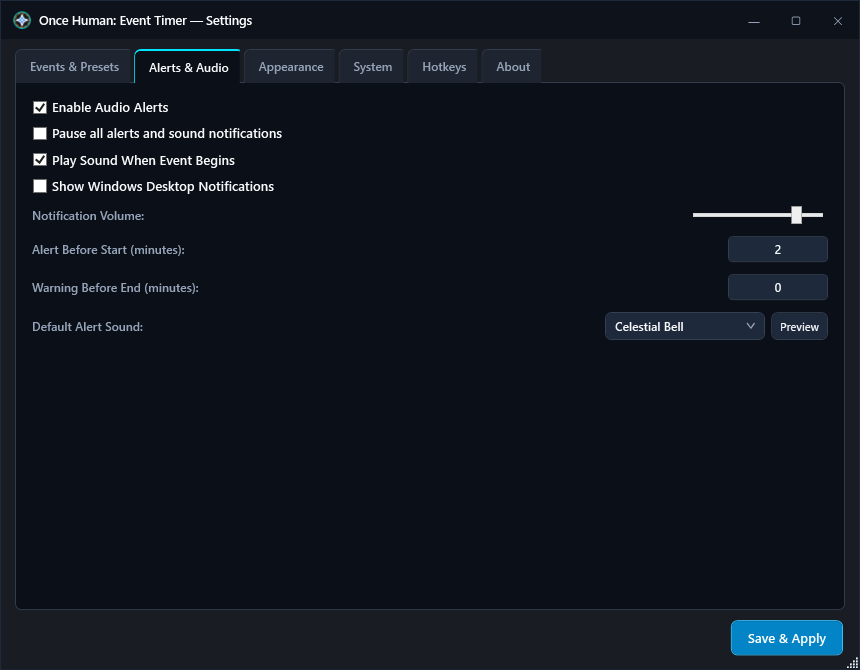
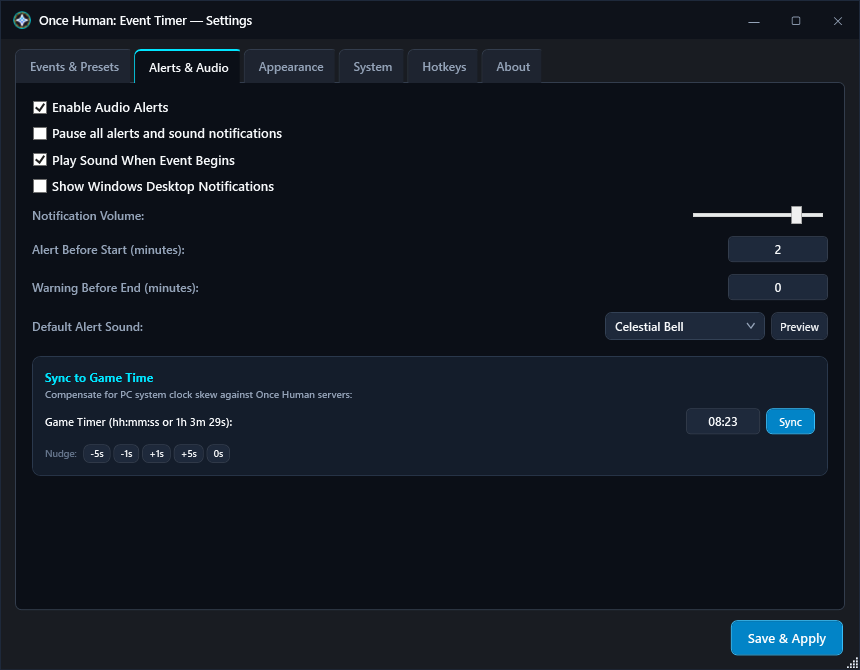
refactor(ui): Move server clock drift calibration card to Alerts & Audio tab
- Relocate 'Sync to Game Time (Server Clock Skew)' card from Events & Presets to Alerts & Audio tab
- Wrap Alerts & Audio tab in ScrollViewer for responsive vertical scaling
- Clean up Events & Presets tab right panel to eliminate scrolling and focus purely on event rules
- Update screenshots (settings-events.jpg and settings-audio.png)
- Bump version to 1.5.6

Changed region(s): [[0.0302, 0.6269, 0.2721, 0.7164], [0.0302, 0.5373, 0.393, 0.597], [0.786, 0.597, 0.9674, 0.6567]]

diff --git a/src/OnceHumanEventTimer.UI/Views/SettingsWindow.xaml b/src/OnceHumanEventTimer.UI/Views/SettingsWindow.xaml
@@ -406,67 +406,7 @@
                                         </StackPanel>
                                     </Border>
 
-                                    <!-- Game Server Skew Calibration Card -->
-                                    <Border Background="#141D2B"
-                                            BorderBrush="#2A384C"
-                                            BorderThickness="1"
-                                            CornerRadius="6"
-                                            Padding="10"
-                                            Margin="0,2,0,0">
-                                        <StackPanel>
-                                            <TextBlock Text="{loc:Loc Settings_SyncToGame}"
-                                                       FontWeight="Bold"
-                                                       FontSize="12"
-                                                       Foreground="{StaticResource AccentWaitingBrush}" />
 
-                                            <TextBlock Text="{loc:Loc Settings_SyncDesc}"
-                                                       FontSize="10"
-                                                       Foreground="{StaticResource TextSecondaryBrush}"
-                                                       TextWrapping="Wrap"
-                                                       Margin="0,2,0,6" />
-
-                                            <Grid Margin="0,0,0,6">
-                                                <Grid.ColumnDefinitions>
-                                                    <ColumnDefinition Width="*" />
-                                                    <ColumnDefinition Width="70" />
-                                                    <ColumnDefinition Width="Auto" />
-                                                </Grid.ColumnDefinitions>
-                                                <TextBlock Text="{loc:Loc Settings_GameRemaining}"
-                                                           VerticalAlignment="Center"
-                                                           Foreground="{StaticResource TextPrimaryBrush}"
-                                                           FontSize="11" />
-                                                <TextBox Grid.Column="1"
-                                                         Text="{Binding GameRemainingInput, UpdateSourceTrigger=PropertyChanged}"
-                                                         HorizontalContentAlignment="Center"
-                                                         Margin="0,0,6,0" />
-                                                <Button Grid.Column="2"
-                                                        Command="{Binding SyncToGameCommand}"
-                                                        Style="{StaticResource PrimaryAccentButtonStyle}"
-                                                        Content="{loc:Loc Settings_SyncButton}"
-                                                        Padding="10,3"
-                                                        FontSize="11" />
-                                            </Grid>
-
-                                            <!-- Quick Nudge Buttons -->
-                                            <StackPanel Orientation="Horizontal" Margin="0,2,0,0">
-                                                <TextBlock Text="Nudge: " Foreground="{StaticResource TextMutedBrush}" FontSize="9.5" VerticalAlignment="Center" Margin="0,0,3,0" />
-                                                <Button Content="-5s" Command="{Binding NudgeOffsetCommand}" CommandParameter="-5" Style="{StaticResource ModernDarkButtonStyle}" Padding="5,1" FontSize="9.5" Margin="0,0,2,0" />
-                                                <Button Content="-1s" Command="{Binding NudgeOffsetCommand}" CommandParameter="-1" Style="{StaticResource ModernDarkButtonStyle}" Padding="5,1" FontSize="9.5" Margin="0,0,2,0" />
-                                                <Button Content="+1s" Command="{Binding NudgeOffsetCommand}" CommandParameter="1" Style="{StaticResource ModernDarkButtonStyle}" Padding="5,1" FontSize="9.5" Margin="0,0,2,0" />
-                                                <Button Content="+5s" Command="{Binding NudgeOffsetCommand}" CommandParameter="5" Style="{StaticResource ModernDarkButtonStyle}" Padding="5,1" FontSize="9.5" Margin="0,0,2,0" />
-                                                <Button Content="0s" Command="{Binding NudgeOffsetCommand}" CommandParameter="0" Style="{StaticResource ModernDarkButtonStyle}" Padding="5,1" FontSize="9.5" />
-                                            </StackPanel>
-
-                                            <!-- Feedback notification -->
-                                            <TextBlock Text="{Binding SyncFeedbackMessage}"
-                                                       Foreground="#22C55E"
-                                                       FontWeight="SemiBold"
-                                                       FontSize="10.5"
-                                                       Margin="0,6,0,0"
-                                                       Visibility="{Binding ShowSyncFeedback, Converter={StaticResource BoolToVis}}"
-                                                       TextWrapping="Wrap" />
-                                        </StackPanel>
-                                    </Border>
                                 </StackPanel>
                             </ScrollViewer>
                         </Grid>
@@ -474,71 +414,135 @@
 
                     <!-- Tab 2: Alerts & Audio -->
                     <TabItem Header="{loc:Loc Settings_TabNotifications}">
-                        <StackPanel Margin="16">
-                            <CheckBox Content="{loc:Loc Settings_PlaySound}" IsChecked="{Binding PlayAlertSound}" Style="{StaticResource ModernCheckBoxStyle}" Margin="0,0,0,10" />
-                            <CheckBox Content="{loc:Loc Settings_PauseAlerts}" IsChecked="{Binding AreAlertsPaused}" Style="{StaticResource ModernCheckBoxStyle}" Margin="0,0,0,10" />
-                            <CheckBox Content="{loc:Loc Settings_PlayOnStart}" IsChecked="{Binding PlayOnEventStart}" Style="{StaticResource ModernCheckBoxStyle}" Margin="0,0,0,10" />
-                            <CheckBox Content="{loc:Loc Settings_ShowToast}" IsChecked="{Binding ShowToastAlert}" Style="{StaticResource ModernCheckBoxStyle}" Margin="0,0,0,12" />
+                        <ScrollViewer VerticalScrollBarVisibility="Auto">
+                            <StackPanel Margin="16">
+                                <CheckBox Content="{loc:Loc Settings_PlaySound}" IsChecked="{Binding PlayAlertSound}" Style="{StaticResource ModernCheckBoxStyle}" Margin="0,0,0,10" />
+                                <CheckBox Content="{loc:Loc Settings_PauseAlerts}" IsChecked="{Binding AreAlertsPaused}" Style="{StaticResource ModernCheckBoxStyle}" Margin="0,0,0,10" />
+                                <CheckBox Content="{loc:Loc Settings_PlayOnStart}" IsChecked="{Binding PlayOnEventStart}" Style="{StaticResource ModernCheckBoxStyle}" Margin="0,0,0,10" />
+                                <CheckBox Content="{loc:Loc Settings_ShowToast}" IsChecked="{Binding ShowToastAlert}" Style="{StaticResource ModernCheckBoxStyle}" Margin="0,0,0,12" />
 
-                            <Grid Margin="0,0,0,12">
-                                <Grid.ColumnDefinitions>
-                                    <ColumnDefinition Width="*" />
-                                    <ColumnDefinition Width="140" />
-                                </Grid.ColumnDefinitions>
-                                <TextBlock Text="{loc:Loc Settings_Volume}" VerticalAlignment="Center" Foreground="{StaticResource TextSecondaryBrush}" />
-                                <Slider Grid.Column="1" Minimum="0" Maximum="1" Value="{Binding Volume}" SmallChange="0.05" LargeChange="0.1" VerticalAlignment="Center" />
-                            </Grid>
+                                <Grid Margin="0,0,0,12">
+                                    <Grid.ColumnDefinitions>
+                                        <ColumnDefinition Width="*" />
+                                        <ColumnDefinition Width="140" />
+                                    </Grid.ColumnDefinitions>
+                                    <TextBlock Text="{loc:Loc Settings_Volume}" VerticalAlignment="Center" Foreground="{StaticResource TextSecondaryBrush}" />
+                                    <Slider Grid.Column="1" Minimum="0" Maximum="1" Value="{Binding Volume}" SmallChange="0.05" LargeChange="0.1" VerticalAlignment="Center" />
+                                </Grid>
 
-                            <Grid Margin="0,0,0,12">
-                                <Grid.ColumnDefinitions>
-                                    <ColumnDefinition Width="*" />
-                                    <ColumnDefinition Width="100" />
-                                </Grid.ColumnDefinitions>
-                                <TextBlock Text="{loc:Loc Settings_AlertBeforeStart}" VerticalAlignment="Center" Foreground="{StaticResource TextSecondaryBrush}" />
-                                <TextBox Grid.Column="1" Text="{Binding AlertMinutesBefore, UpdateSourceTrigger=PropertyChanged}" HorizontalContentAlignment="Center" />
-                            </Grid>
+                                <Grid Margin="0,0,0,12">
+                                    <Grid.ColumnDefinitions>
+                                        <ColumnDefinition Width="*" />
+                                        <ColumnDefinition Width="100" />
+                                    </Grid.ColumnDefinitions>
+                                    <TextBlock Text="{loc:Loc Settings_AlertBeforeStart}" VerticalAlignment="Center" Foreground="{StaticResource TextSecondaryBrush}" />
+                                    <TextBox Grid.Column="1" Text="{Binding AlertMinutesBefore, UpdateSourceTrigger=PropertyChanged}" HorizontalContentAlignment="Center" />
+                                </Grid>
 
-                            <Grid Margin="0,0,0,12">
-                                <Grid.ColumnDefinitions>
-                                    <ColumnDefinition Width="*" />
-                                    <ColumnDefinition Width="100" />
-                                </Grid.ColumnDefinitions>
-                                <TextBlock Text="{loc:Loc Settings_AlertBeforeEnd}" VerticalAlignment="Center" Foreground="{StaticResource TextSecondaryBrush}" />
-                                <TextBox Grid.Column="1" Text="{Binding AlertMinutesBeforeEnd, UpdateSourceTrigger=PropertyChanged}" HorizontalContentAlignment="Center" />
-                            </Grid>
+                                <Grid Margin="0,0,0,12">
+                                    <Grid.ColumnDefinitions>
+                                        <ColumnDefinition Width="*" />
+                                        <ColumnDefinition Width="100" />
+                                    </Grid.ColumnDefinitions>
+                                    <TextBlock Text="{loc:Loc Settings_AlertBeforeEnd}" VerticalAlignment="Center" Foreground="{StaticResource TextSecondaryBrush}" />
+                                    <TextBox Grid.Column="1" Text="{Binding AlertMinutesBeforeEnd, UpdateSourceTrigger=PropertyChanged}" HorizontalContentAlignment="Center" />
+                                </Grid>
 
-                            <!-- Default Alert Sound Preset -->
-                            <Grid Margin="0,0,0,12">
-                                <Grid.ColumnDefinitions>
-                                    <ColumnDefinition Width="*" />
-                                    <ColumnDefinition Width="Auto" />
-                                </Grid.ColumnDefinitions>
-                                <TextBlock Text="{loc:Loc Settings_DefaultSound}" VerticalAlignment="Center" Foreground="{StaticResource TextSecondaryBrush}" />
-                                <StackPanel Grid.Column="1" Orientation="Horizontal" VerticalAlignment="Center">
-                                    <ComboBox Width="160"
-                                              ItemsSource="{Binding AvailableSoundPresets}"
-                                              SelectedValuePath="Preset"
-                                              DisplayMemberPath="DisplayName"
-                                              SelectedValue="{Binding AlertSoundPreset}"
-                                              Validation.ErrorTemplate="{x:Null}"
-                                              Margin="0,0,6,0" />
-                                    <Button Style="{StaticResource ModernDarkButtonStyle}" Command="{Binding PreviewAlertSoundCommand}" Content="{loc:Loc Settings_PreviewSound}" Padding="8,4" FontSize="11" />
-                                </StackPanel>
-                            </Grid>
-
-                            <!-- Global Custom Audio (when Custom preset is selected) -->
-                            <StackPanel Margin="0,0,0,12" Visibility="{Binding IsCustomAlertSound, Converter={StaticResource BoolToVis}}">
-                                <TextBlock Text="{loc:Loc Settings_CustomSound}" Foreground="{StaticResource TextSecondaryBrush}" Margin="0,0,0,4" />
-                                <Grid>
+                                <!-- Default Alert Sound Preset -->
+                                <Grid Margin="0,0,0,12">
                                     <Grid.ColumnDefinitions>
                                         <ColumnDefinition Width="*" />
                                         <ColumnDefinition Width="Auto" />
                                     </Grid.ColumnDefinitions>
-                                    <TextBox Text="{Binding CustomSoundPath}" VerticalAlignment="Center" />
-                                    <Button Grid.Column="1" Style="{StaticResource ModernDarkButtonStyle}" Command="{Binding BrowseSoundCommand}" Content="{loc:Loc Settings_Browse}" Margin="8,0,0,0" />
+                                    <TextBlock Text="{loc:Loc Settings_DefaultSound}" VerticalAlignment="Center" Foreground="{StaticResource TextSecondaryBrush}" />
+                                    <StackPanel Grid.Column="1" Orientation="Horizontal" VerticalAlignment="Center">
+                                        <ComboBox Width="160"
+                                                  ItemsSource="{Binding AvailableSoundPresets}"
+                                                  SelectedValuePath="Preset"
+                                                  DisplayMemberPath="DisplayName"
+                                                  SelectedValue="{Binding AlertSoundPreset}"
+                                                  Validation.ErrorTemplate="{x:Null}"
+                                                  Margin="0,0,6,0" />
+                                        <Button Style="{StaticResource ModernDarkButtonStyle}" Command="{Binding PreviewAlertSoundCommand}" Content="{loc:Loc Settings_PreviewSound}" Padding="8,4" FontSize="11" />
+                                    </StackPanel>
                                 </Grid>
+
+                                <!-- Global Custom Audio (when Custom preset is selected) -->
+                                <StackPanel Margin="0,0,0,12" Visibility="{Binding IsCustomAlertSound, Converter={StaticResource BoolToVis}}">
+                                    <TextBlock Text="{loc:Loc Settings_CustomSound}" Foreground="{StaticResource TextSecondaryBrush}" Margin="0,0,0,4" />
+                                    <Grid>
+                                        <Grid.ColumnDefinitions>
+                                            <ColumnDefinition Width="*" />
+                                            <ColumnDefinition Width="Auto" />
+                                        </Grid.ColumnDefinitions>
+                                        <TextBox Text="{Binding CustomSoundPath}" VerticalAlignment="Center" />
+                                        <Button Grid.Column="1" Style="{StaticResource ModernDarkButtonStyle}" Command="{Binding BrowseSoundCommand}" Content="{loc:Loc Settings_Browse}" Margin="8,0,0,0" />
+                                    </Grid>
+                                </StackPanel>
+
+                                <!-- Game Server Skew Calibration Card -->
+                                <Border Background="#141D2B"
+                                        BorderBrush="#2A384C"
+                                        BorderThickness="1"
+                                        CornerRadius="8"
+                                        Padding="12"
+                                        Margin="0,4,0,0">
+                                    <StackPanel>
+                                        <TextBlock Text="{loc:Loc Settings_SyncToGame}"
+                                                   FontWeight="Bold"
+                                                   FontSize="12"
+                                                   Foreground="{StaticResource AccentWaitingBrush}" />
+
+                                        <TextBlock Text="{loc:Loc Settings_SyncDesc}"
+                                                   FontSize="10"
+                                                   Foreground="{StaticResource TextSecondaryBrush}"
+                                                   TextWrapping="Wrap"
+                                                   Margin="0,2,0,8" />
+
+                                        <Grid Margin="0,0,0,8">
+                                            <Grid.ColumnDefinitions>
+                                                <ColumnDefinition Width="*" />
+                                                <ColumnDefinition Width="80" />
+                                                <ColumnDefinition Width="Auto" />
+                                            </Grid.ColumnDefinitions>
+                                            <TextBlock Text="{loc:Loc Settings_GameRemaining}"
+                                                       VerticalAlignment="Center"
+                                                       Foreground="{StaticResource TextPrimaryBrush}"
+                                                       FontSize="11" />
+                                            <TextBox Grid.Column="1"
+                                                     Text="{Binding GameRemainingInput, UpdateSourceTrigger=PropertyChanged}"
+                                                     HorizontalContentAlignment="Center"
+                                                     Margin="0,0,6,0" />
+                                            <Button Grid.Column="2"
+                                                    Command="{Binding SyncToGameCommand}"
+                                                    Style="{StaticResource PrimaryAccentButtonStyle}"
+                                                    Content="{loc:Loc Settings_SyncButton}"
+                                                    Padding="12,3"
+                                                    FontSize="11" />
+                                        </Grid>
+
+                                        <!-- Quick Nudge Buttons -->
+                                        <StackPanel Orientation="Horizontal" Margin="0,2,0,0">
+                                            <TextBlock Text="Nudge: " Foreground="{StaticResource TextMutedBrush}" FontSize="9.5" VerticalAlignment="Center" Margin="0,0,4,0" />
+                                            <Button Content="-5s" Command="{Binding NudgeOffsetCommand}" CommandParameter="-5" Style="{StaticResource ModernDarkButtonStyle}" Padding="6,2" FontSize="9.5" Margin="0,0,3,0" />
+                                            <Button Content="-1s" Command="{Binding NudgeOffsetCommand}" CommandParameter="-1" Style="{StaticResource ModernDarkButtonStyle}" Padding="6,2" FontSize="9.5" Margin="0,0,3,0" />
+                                            <Button Content="+1s" Command="{Binding NudgeOffsetCommand}" CommandParameter="1" Style="{StaticResource ModernDarkButtonStyle}" Padding="6,2" FontSize="9.5" Margin="0,0,3,0" />
+                                            <Button Content="+5s" Command="{Binding NudgeOffsetCommand}" CommandParameter="5" Style="{StaticResource ModernDarkButtonStyle}" Padding="6,2" FontSize="9.5" Margin="0,0,3,0" />
+                                            <Button Content="0s" Command="{Binding NudgeOffsetCommand}" CommandParameter="0" Style="{StaticResource ModernDarkButtonStyle}" Padding="6,2" FontSize="9.5" />
+                                        </StackPanel>
+
+                                        <!-- Feedback notification -->
+                                        <TextBlock Text="{Binding SyncFeedbackMessage}"
+                                                   Foreground="#22C55E"
+                                                   FontWeight="SemiBold"
+                                                   FontSize="10.5"
+                                                   Margin="0,6,0,0"
+                                                   Visibility="{Binding ShowSyncFeedback, Converter={StaticResource BoolToVis}}"
+                                                   TextWrapping="Wrap" />
+                                    </StackPanel>
+                                </Border>
                             </StackPanel>
-                        </StackPanel>
+                        </ScrollViewer>
                     </TabItem>
 
                     <!-- Tab 3: Appearance -->
